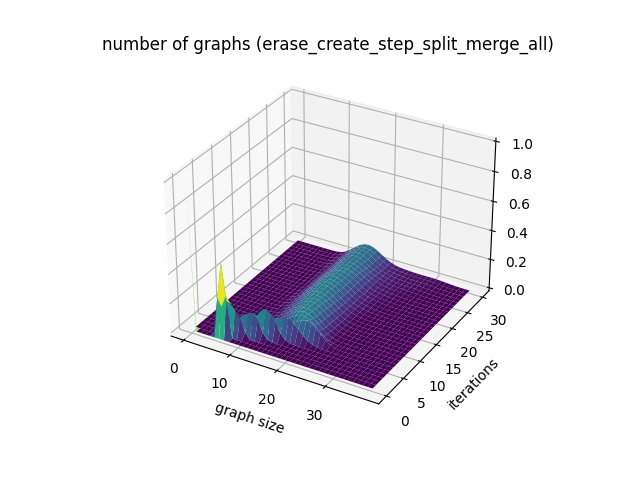
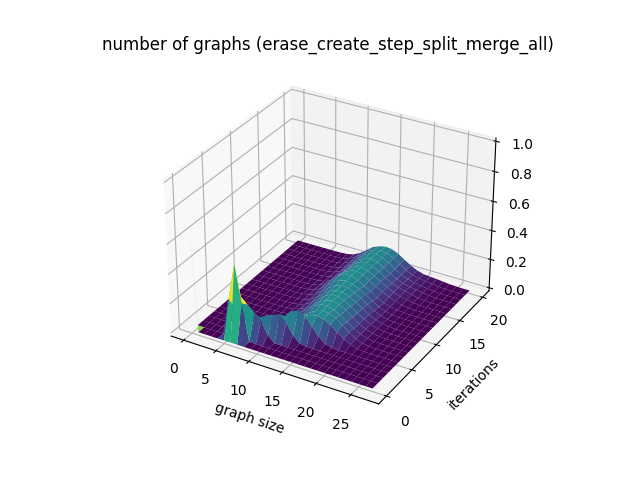
added a normalize function and remooved the memory unefficient parallel reduce

diff --git a/v5/quantum/state.hpp b/v5/quantum/state.hpp
@@ -4,11 +4,11 @@
 #include "../classical/graph.hpp"
 #include <tbb/concurrent_unordered_map.h>
 #include <tbb/concurrent_vector.h>
-#include <tbb/concurrent_map.h>
+#include <map>
 
 // check zero probability
 bool inline check_zero(const std::complex<double>& mag) {
-	const double double_tolerance = 1e-30;
+	const double double_tolerance = 1e-6;
 	return std::norm(mag) <= double_tolerance;
 	/*const std::complex<double> zero = 0;
 	return mag == zero;*/
@@ -57,7 +57,10 @@ public:
 	void step_all(std::function<tbb::concurrent_vector<std::pair<std::shared_ptr<graph_t>, std::complex<double>>>(std::shared_ptr<graph_t> g)> rule);
 
 	// limit graphs
-	void reduce_and_discard(size_t n_graphs);
+	void discard_all(size_t n_graphs);
+
+	// normalize
+	void normalize();
 };
 
 // insert operators 
@@ -66,7 +69,21 @@ void state::reduce_all() {
 		printf("reducing %ld graphs...\n", graphs_.size());
 	#endif
 
-	graph_map_t buff;
+	for(auto it = graphs_.begin(); it != graphs_.end();) {
+    	// range of similar graphs to delete
+    	auto upper = graphs_.equal_range(it->first).second;
+
+    	for(auto jt = std::next(it); jt != upper; ++jt)
+        	it->second += jt->second;
+
+    	// if the first graphgs has a zero probability, erase the whole range
+    	if (!check_zero(it->second))
+    		++it;
+    	
+    	it = graphs_.unsafe_erase(it, upper);
+    }
+
+	/*graph_map_t buff; // faster, parallel reduce that uses WAY more ram
 	buff.swap(graphs_);
 
 	#pragma omp parallel
@@ -91,42 +108,47 @@ void state::reduce_all() {
     	}
     }
 
-    buff.clear();
+    buff.clear();*/
 }
 
-void state::reduce_and_discard(size_t n_graphs) {
+void state::discard_all(size_t n_graphs) {
 	if (graphs_.size() < n_graphs)
-		return reduce_all();
+		return;
 
-	tbb::concurrent_multimap<double, std::pair<std::shared_ptr<graph_t>, std::complex<double>>> map;
+	/* compute sure threshold proba */
+	double threshold_proba = 0;
+
+	std::map<double, std::pair<std::shared_ptr<graph_t>, std::complex<double>>> map;
+	for (auto & [graph, mag] : graphs_) {
+		double proba = std::norm(mag);
+
+		if (proba > threshold_proba) {
+			map.insert({proba, {graph, mag}});
+
+			if (map.size() == n_graphs + 1) {
+				map.erase(map.begin());
+				printf("\nmap %f %f\n", map.begin()->first, std::prev(map.end())->first);
+				threshold_proba = map.begin()->first;
+			}
+		}
+	}
+
+	graphs_.clear();
+	for (auto & [_, key] : map)
+		graphs_.insert(key);
+}
+
+void state::normalize() {
+	double proba = 0;
+
+	for (auto & [_, mag] : graphs_)
+		proba += std::norm(mag);
 
 	#pragma omp parallel
 	#pragma omp single
-    for(auto it = graphs_.begin(); it != graphs_.end();) {
-    	// range of similar graphs to delete
-    	auto const graph = it->first;
-    	auto const range = graphs_.equal_range(graph);
-
-    	// next iteration
-    	it = range.second;
-
-    	#pragma omp task
-    	{
-    		std::complex<double> acc = 0;
-    		for(auto jt = range.first; jt != range.second; ++jt)
-        		acc += jt->second;
-
-	    	// if the first graphgs has a zero probability, erase the whole range
-	    	if (!check_zero(acc))
-	    		map.insert({std::norm(acc), {graph, acc}});
-    	}
-    }
-
-    graphs_.clear();
-    auto it = map.begin(); 
-    for (int i = 0; i < n_graphs && it != map.end(); ++i, ++it)
-    #pragma omp task
-    	graphs_.insert(it->second);
+	for (auto it = graphs_.begin(); it != graphs_.end(); ++it)
+		#pragma omp task
+		it->second /= proba;
 }
 
 // dynamic 

diff --git a/v5/grapher/quantum_iteration.cpp b/v5/grapher/quantum_iteration.cpp
@@ -9,8 +9,8 @@
 
 #define RULE "erase_create_step_split_merge_all"; //"step_split_merge_all" //"step_erase_create_all" //"split_merge_step_erase_create_all"
 #define SIZE 5
-#define N_ITER 7
-#define MAX_NUM_GRAPHS 1000000
+#define N_ITER 20
+#define MAX_NUM_GRAPHS 20000
 
 int main() {
     auto rule_ = RULE;
@@ -40,8 +40,12 @@ int main() {
     
     for (int i = 1; i < N_ITER + 1; ++i) {
         s->step_all(rule);
-        s->reduce_and_discard(MAX_NUM_GRAPHS);
+        s->reduce_all();
+        s->discard_all(MAX_NUM_GRAPHS);
+
         serialize_state_to_json(s);
+        
+        s->normalize();
    	}
 
     end_json();

diff --git a/v5/tests/quantum_iteration.cpp b/v5/tests/quantum_iteration.cpp
@@ -39,7 +39,7 @@ int main() {
 
         printf("reduce_all() ...\n\n");
         s->reduce_all();
-        //s->reduce_and_discard(300);
+        //s->discard_all(300);
         printf("\n");
    	}
 
